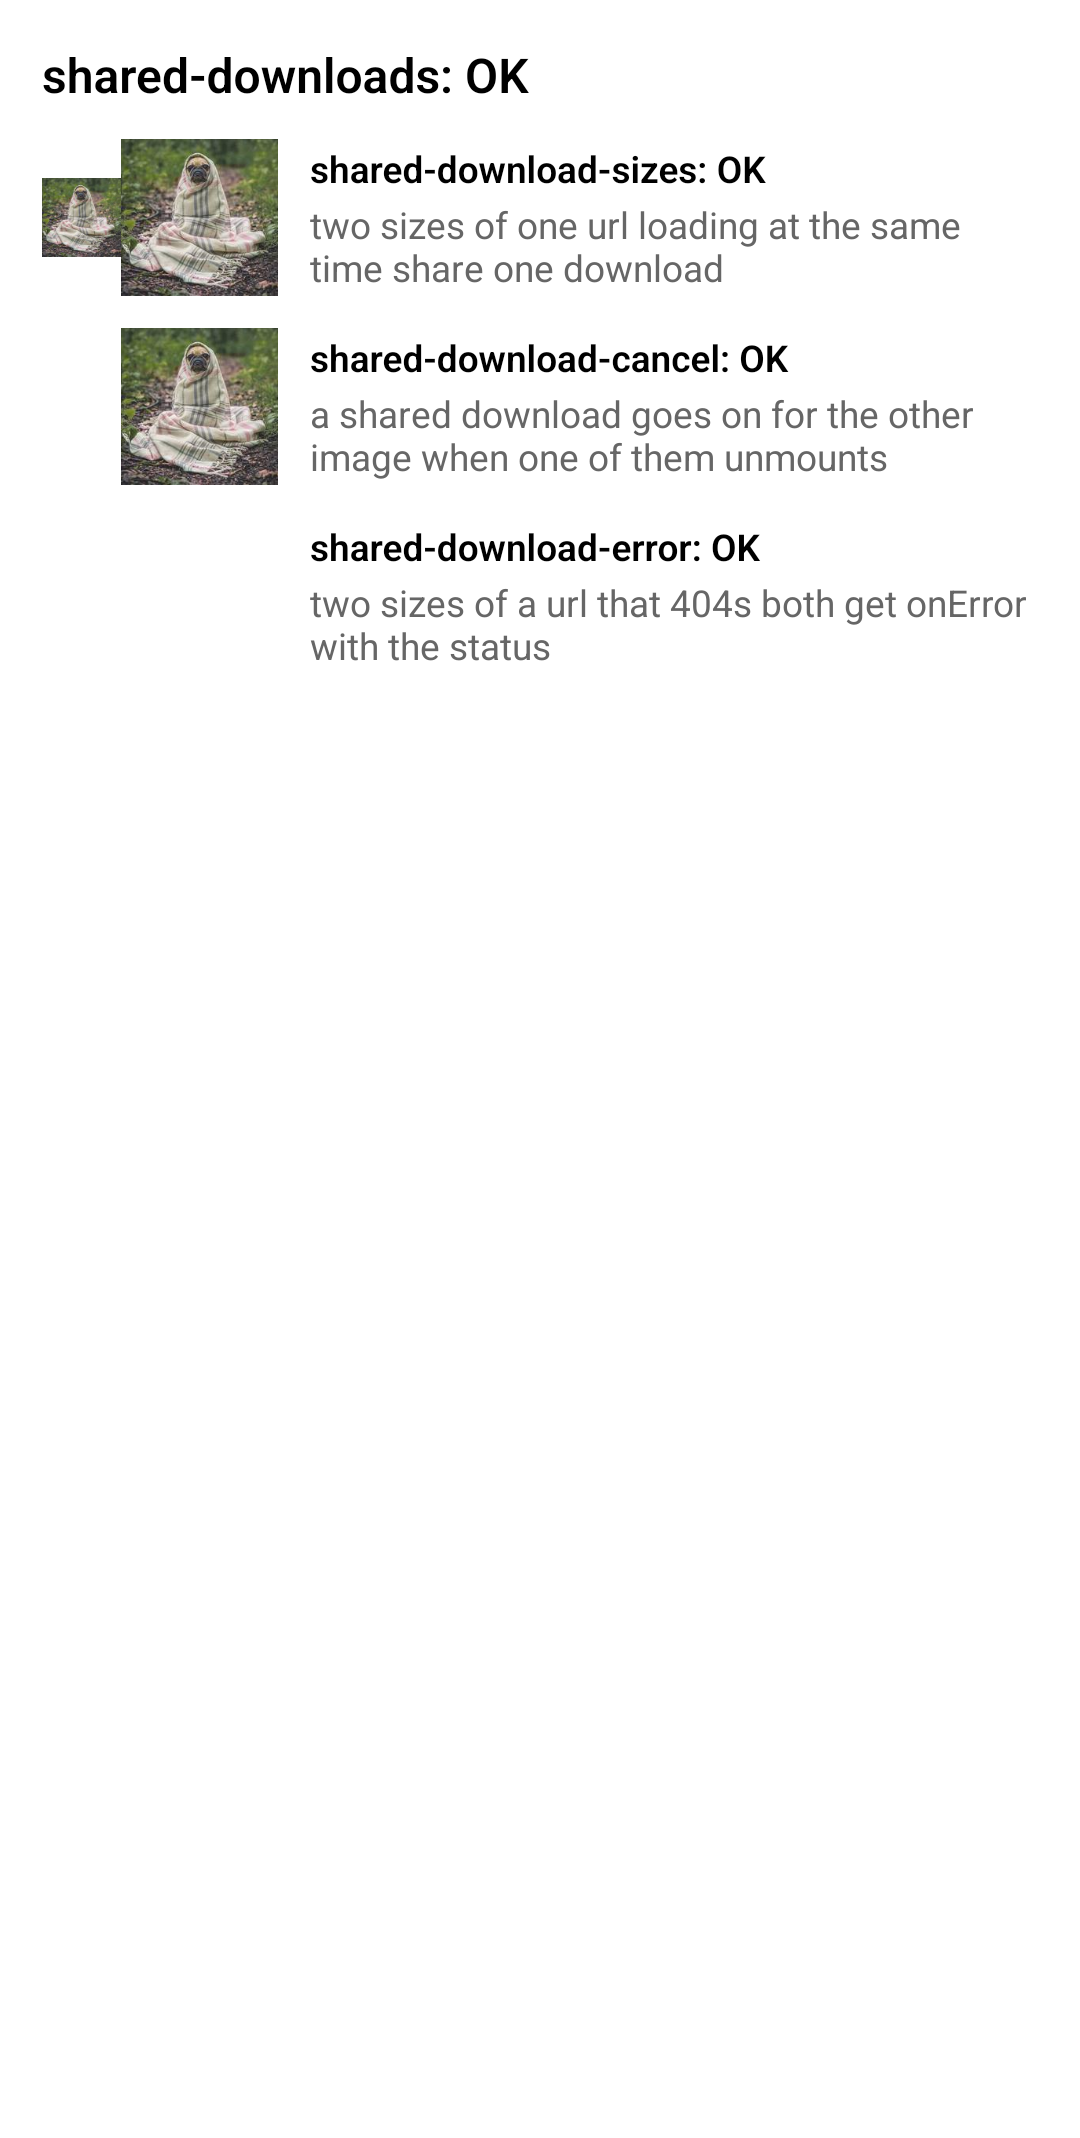
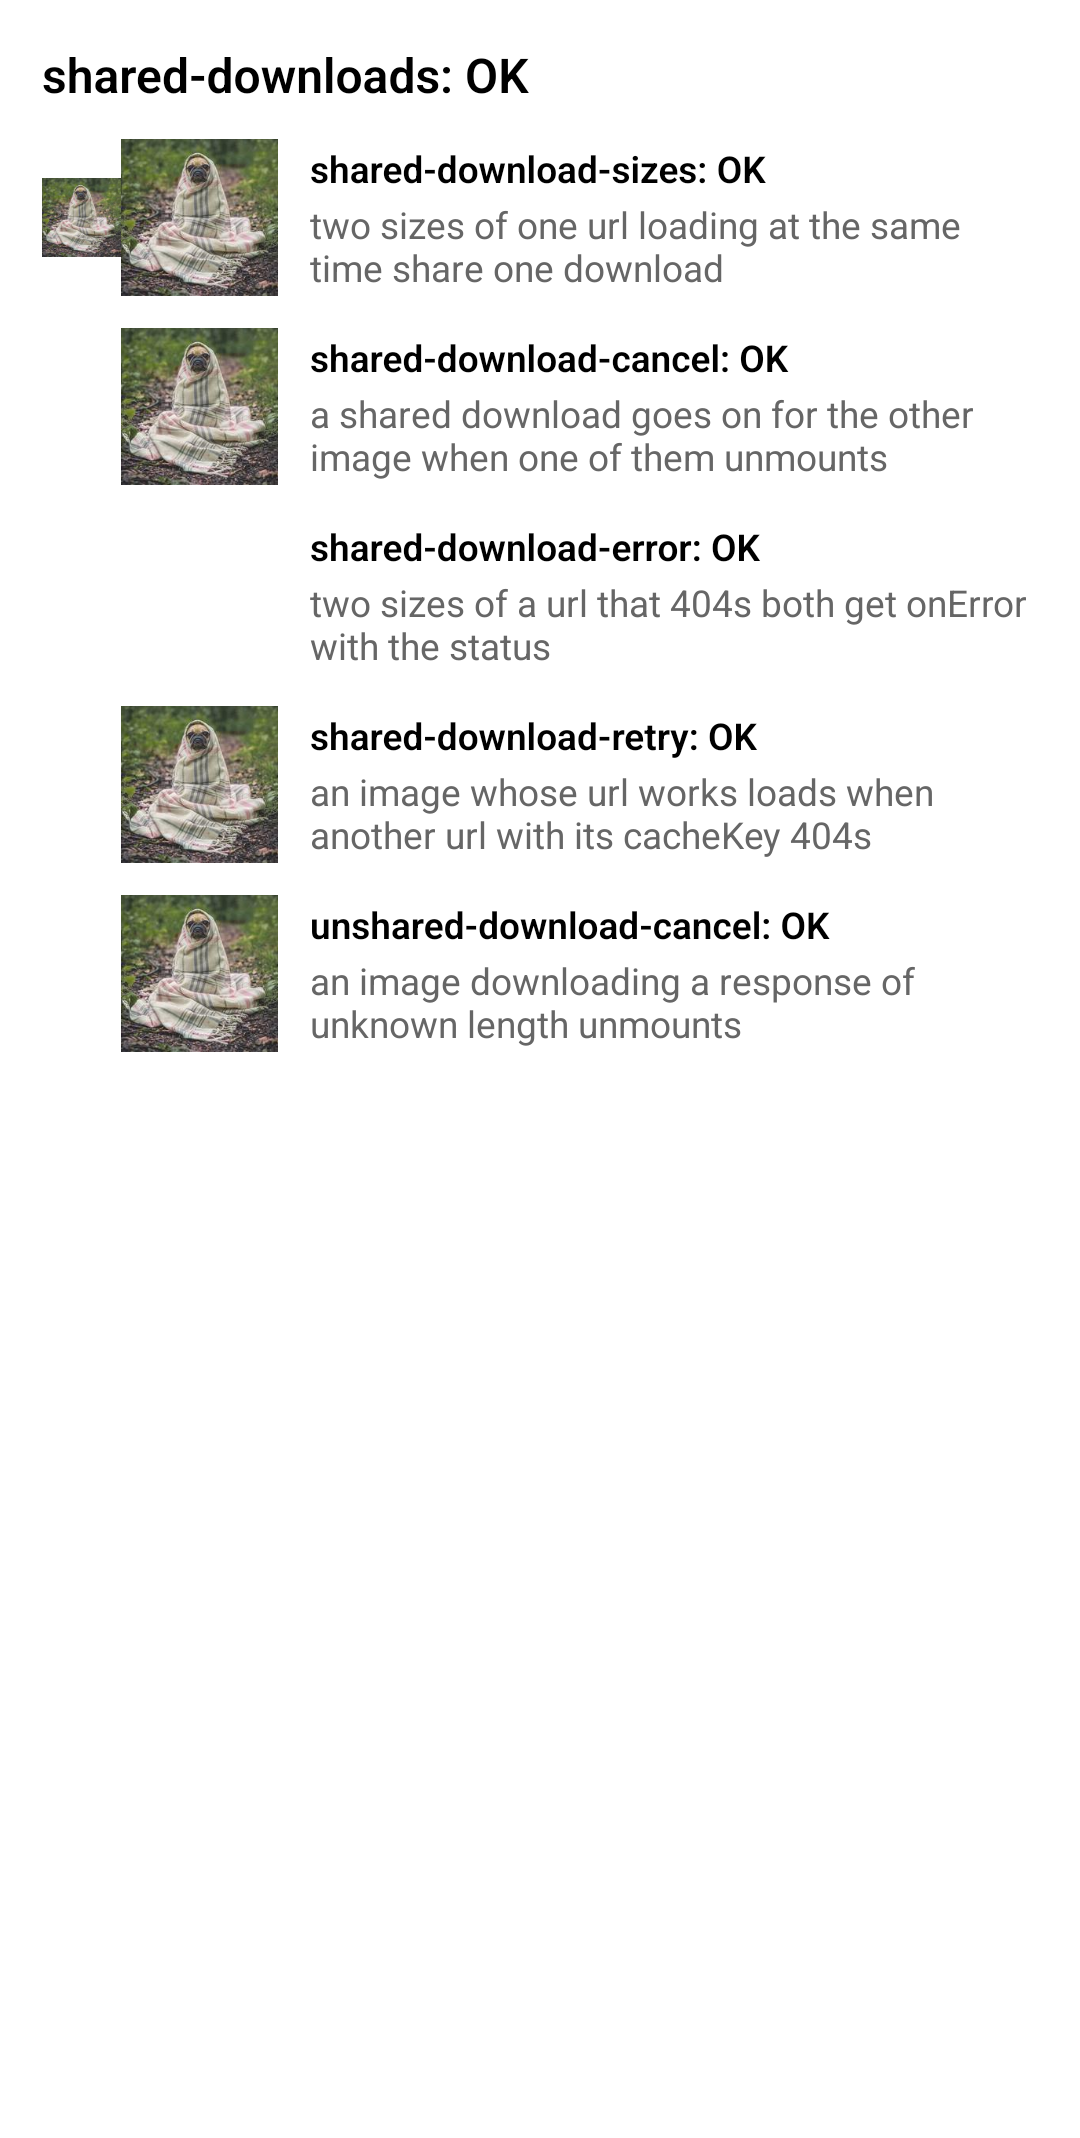
test: shared-download-retry and unshared-download-cancel, with the slow server's chunked responses and held errors

Changed region(s): [[0.0917, 0.3087, 0.8556, 0.4939]]

diff --git a/ReactNativeFastImageExample/src/RegressionExample.tsx b/ReactNativeFastImageExample/src/RegressionExample.tsx
@@ -1393,6 +1393,156 @@ function SharedDownloadErrorCase() {
     )
 }
 
+const sleep = (ms: number) =>
+    new Promise<void>((resolve) => setTimeout(() => resolve(), ms))
+
+// Waits until the slow server got a request in the group.
+const groupRequested = async (group: string, stopped: () => boolean) => {
+    while (!stopped() && (await groupRequests(group)) < 1) await sleep(100)
+}
+
+// Two images with the same cacheKey and different urls, at different sizes:
+// the first url 404s, which the slow server holds until the second image has
+// started loading, and the second loads. Passes when the first gets onError
+// and the second loads. Android shares downloads by cacheKey, so the second
+// image's request joins the first's download, and downloads its own url once
+// that one fails.
+const RETRY_GROUP = `shared-retry-${RUN}`
+function SharedDownloadRetryCase() {
+    const [second, setSecond] = useState(false)
+    const [failed, setFailed] = useState(false)
+    const [loaded, setLoaded] = useState(false)
+    const [problem, setProblem] = useState<string>()
+    useEffect(() => {
+        let stopped = false
+        const run = async () => {
+            await groupRequested(RETRY_GROUP, () => stopped)
+            if (stopped) return
+            setSecond(true)
+            await sleep(1000)
+            if (stopped) return
+            await fetch(imageUrl(`release?hold=${RETRY_GROUP}`))
+        }
+        run().catch((e) => setProblem(String(e)))
+        return () => {
+            stopped = true
+        }
+    }, [])
+    const fail = (message: string) =>
+        setProblem((previous) => previous ?? message)
+    return (
+        <View style={styles.row}>
+            <FastImage
+                style={sharedStyles.small}
+                source={{
+                    uri: slowImageUrl(
+                        `does-not-exist.jpg?group=${RETRY_GROUP}&hold=${RETRY_GROUP}`,
+                    ),
+                    headers: SLOW_HEADERS,
+                    cacheKey: RETRY_GROUP,
+                }}
+                onLoad={() => fail('onLoad for a url that 404s')}
+                onError={() => setFailed(true)}
+            />
+            <View style={sharedStyles.large}>
+                {second && (
+                    <FastImage
+                        style={sharedStyles.large}
+                        source={{
+                            uri: slowImageUrl(
+                                `picsum/1025-200x200.jpg?retry=${RUN}&delay=100`,
+                            ),
+                            headers: SLOW_HEADERS,
+                            cacheKey: RETRY_GROUP,
+                        }}
+                        onLoad={() => setLoaded(true)}
+                        onError={(e) => {
+                            // Read the event now: the updater runs later.
+                            const error = String(e.nativeEvent.error)
+                            fail(`image 2: onError: ${error}`)
+                        }}
+                    />
+                )}
+            </View>
+            <CaseStatus
+                id="shared-download-retry"
+                status={problem ?? (failed && loaded ? 'OK' : 'waiting')}
+                description="an image whose url works loads when another url with its cacheKey 404s"
+            />
+        </View>
+    )
+}
+
+// An image whose response has no Content-Length unmounts while it downloads
+// (the slow server holds the rest), then another image of the url loads.
+// Passes when it loads. Android doesn't share a response of unknown length:
+// one request reads it from OkHttp, and cancelling that request (on the main
+// thread) must only cancel the call, as closing the response there reads the
+// socket, which throws NetworkOnMainThreadException.
+const UNSHARED_CANCEL_GROUP = `unshared-cancel-${RUN}`
+function UnsharedDownloadCancelCase() {
+    const [shown, setShown] = useState<'first' | 'none' | 'second'>('first')
+    const [loaded, setLoaded] = useState(false)
+    const [problem, setProblem] = useState<string>()
+    useEffect(() => {
+        let stopped = false
+        const run = async () => {
+            await groupRequested(UNSHARED_CANCEL_GROUP, () => stopped)
+            // The first half arrives (100 ms apart), then the server holds.
+            await sleep(600)
+            if (stopped) return
+            setShown('none')
+            await sleep(500)
+            if (stopped) return
+            await fetch(imageUrl(`release?hold=${UNSHARED_CANCEL_GROUP}`))
+            setShown('second')
+        }
+        run().catch((e) => setProblem(String(e)))
+        return () => {
+            stopped = true
+        }
+    }, [])
+    const source = {
+        uri: slowImageUrl(
+            `picsum/1025-200x200.jpg?group=${UNSHARED_CANCEL_GROUP}&hold=${UNSHARED_CANCEL_GROUP}&chunked&delay=100`,
+        ),
+        headers: SLOW_HEADERS,
+    }
+    const onError = (e: OnErrorEvent) => {
+        // Read the event now: the updater runs later.
+        const error = String(e.nativeEvent.error)
+        setProblem((previous) => previous ?? `onError: ${error}`)
+    }
+    return (
+        <View style={styles.row}>
+            <View style={sharedStyles.small}>
+                {shown === 'first' && (
+                    <FastImage
+                        style={sharedStyles.small}
+                        source={source}
+                        onError={onError}
+                    />
+                )}
+            </View>
+            <View style={sharedStyles.large}>
+                {shown === 'second' && (
+                    <FastImage
+                        style={sharedStyles.large}
+                        source={source}
+                        onLoad={() => setLoaded(true)}
+                        onError={onError}
+                    />
+                )}
+            </View>
+            <CaseStatus
+                id="unshared-download-cancel"
+                status={problem ?? (loaded ? 'OK' : 'waiting')}
+                description="an image downloading a response of unknown length unmounts"
+            />
+        </View>
+    )
+}
+
 const sharedStyles = StyleSheet.create({
     small: { width: 30, height: 30 },
     large: { width: 60, height: 60 },
@@ -5400,6 +5550,8 @@ export const REGRESSION_GROUPS: RegressionGroup[] = [
             <SharedDownloadSizesCase key="shared-download-sizes" />,
             <SharedDownloadCancelCase key="shared-download-cancel" />,
             <SharedDownloadErrorCase key="shared-download-error" />,
+            <SharedDownloadRetryCase key="shared-download-retry" />,
+            <UnsharedDownloadCancelCase key="unshared-download-cancel" />,
         ],
     },
     {

diff --git a/ReactNativeFastImageExampleServer/server.ts b/ReactNativeFastImageExampleServer/server.ts
@@ -54,8 +54,9 @@
 // fast-image`. A test can do something while they load (e.g. send the app to
 // the background). With `?hold=<name>`, it sends half the parts, then holds
 // the rest until GET /release?hold=<name> (at most 60 s), so the download is
-// still going on whenever the test is ready; once released, a name isn't
-// held again. It's a node:http server because Bun.serve
+// still going on whenever the test is ready (an error, like a 403 or 404, is
+// held whole); once released, a name isn't held again. With `?chunked`, it's
+// sent without a Content-Length. It's a node:http server because Bun.serve
 // sends streamed responses chunked, ignoring their Content-Length
 // (oven-sh/bun#10507, still the case in Bun 1.4.2).
 
@@ -329,20 +330,27 @@ http.createServer(async (request, response) => {
         response.once('finish', finish)
         response.once('close', finish)
     }
+    const hold = url.searchParams.get('hold')
+    const fail = async (status: number, message: string) => {
+        if (hold !== null) await holdUntilReleased(hold)
+        response.writeHead(status).end(message)
+    }
     if (request.headers['x-token'] !== 'fast-image') {
-        response.writeHead(403).end('Forbidden')
+        await fail(403, 'Forbidden')
         return
     }
     const file = path.join(IMAGES, decodeURIComponent(url.pathname))
     const image = Bun.file(file)
     if (!file.startsWith(IMAGES + path.sep) || !(await image.exists())) {
-        response.writeHead(404).end('Not found')
+        await fail(404, 'Not found')
         return
     }
     const bytes = new Uint8Array(await image.arrayBuffer())
     response.writeHead(200, {
         'Content-Type': image.type,
-        'Content-Length': String(bytes.length),
+        ...(url.searchParams.has('chunked')
+            ? {}
+            : { 'Content-Length': String(bytes.length) }),
     })
     const parts = 8
     const delay = Math.min(
@@ -350,7 +358,6 @@ http.createServer(async (request, response) => {
         Math.max(50, Number(url.searchParams.get('delay')) || 1000),
     )
     const size = Math.ceil(bytes.length / parts)
-    const hold = url.searchParams.get('hold')
     for (let part = 0; part < parts; part++) {
         // The client went away (e.g. the app cancelled the load).
         if (response.destroyed) return
